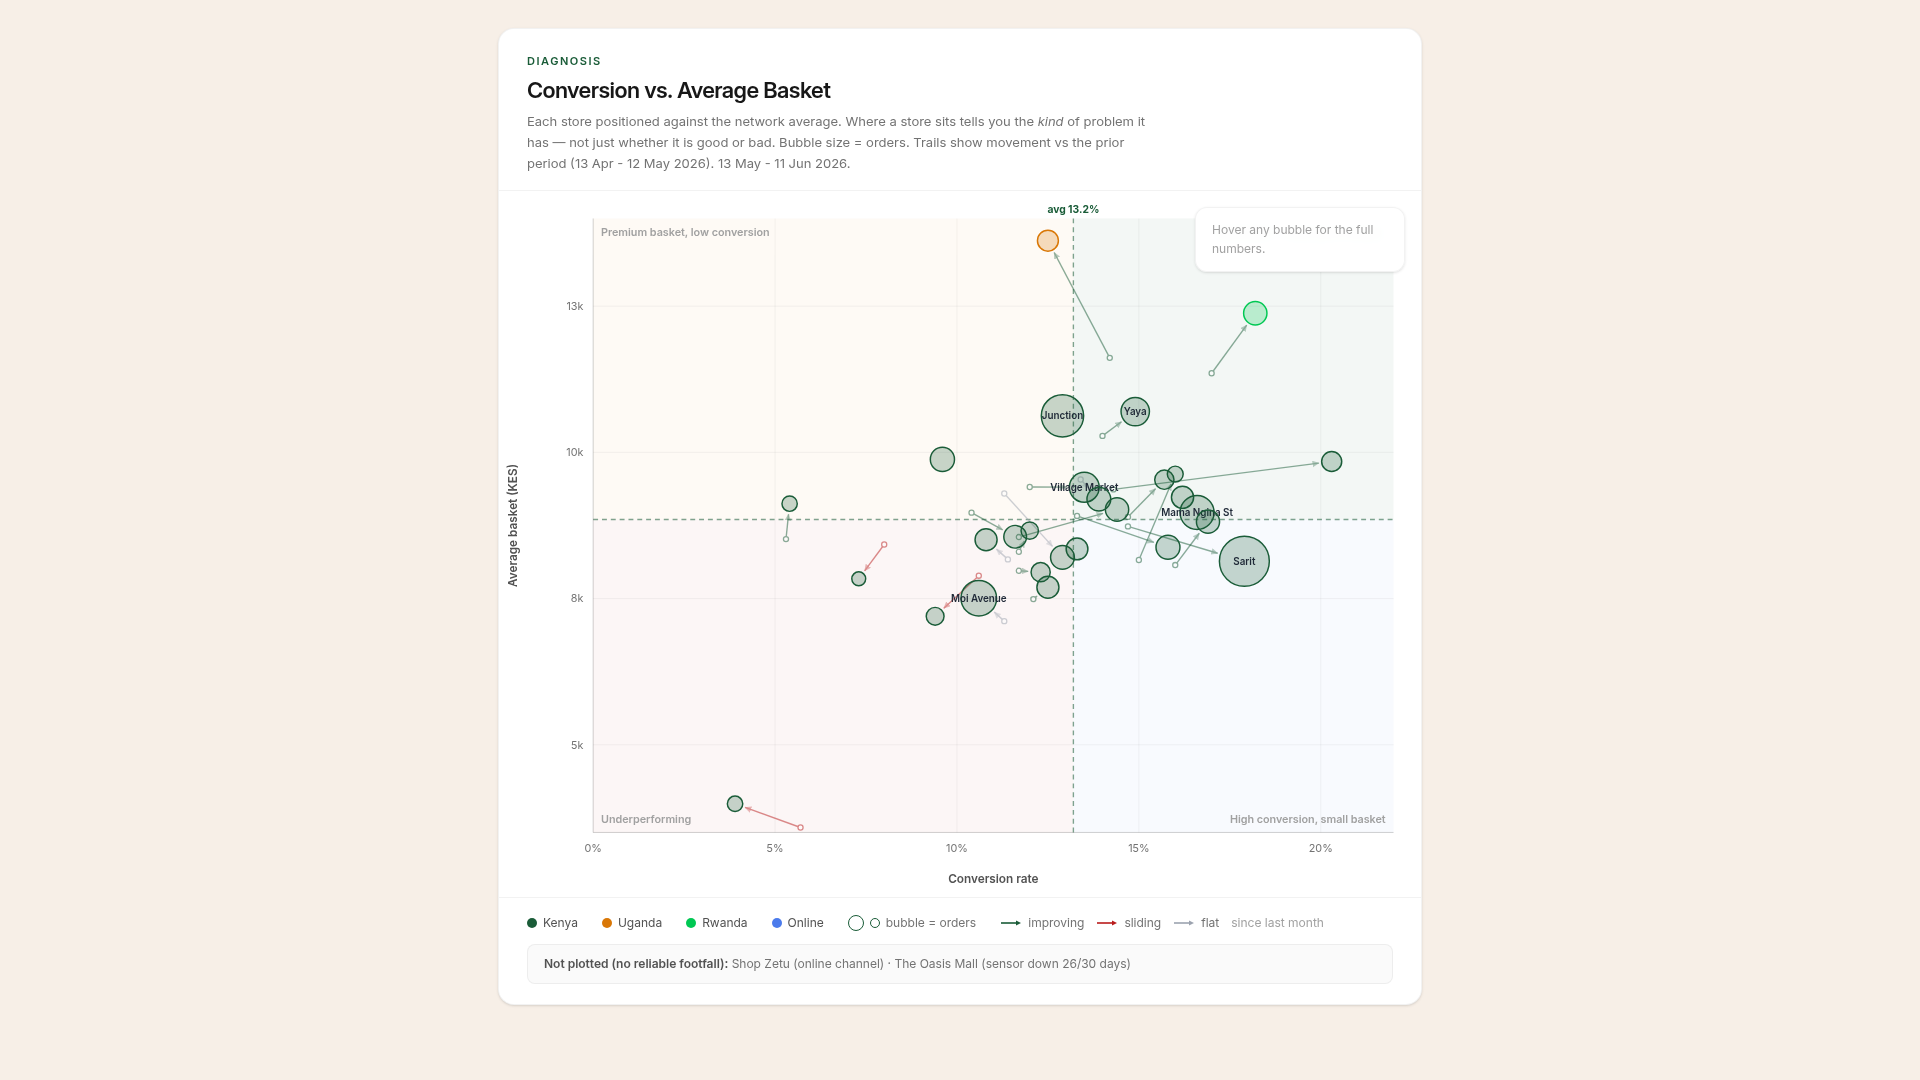
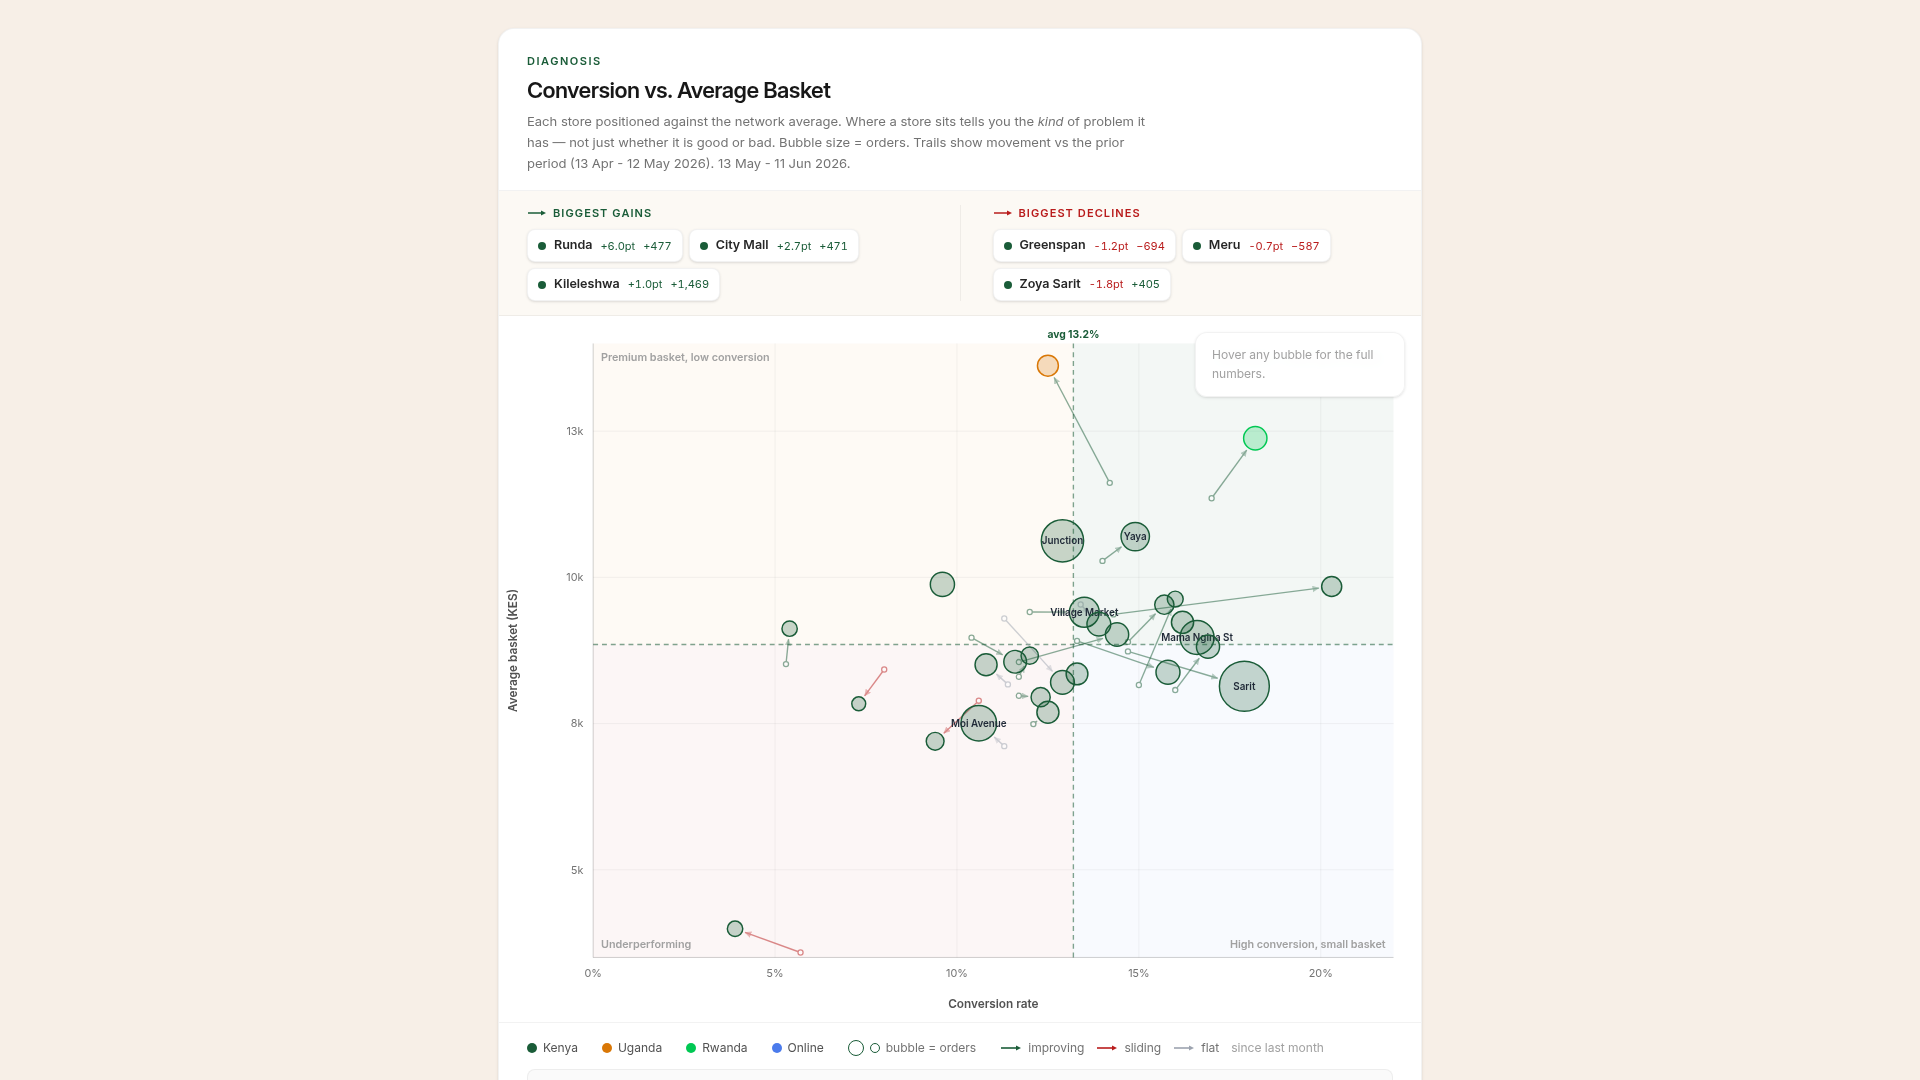
Add a "Biggest Movers" section to highlight top-performing and declining stores
Introduce a new section above the quadrant chart to display the top 3 improving and top 3 declining stores based on composite change.

Replit-Commit-Author: Agent
Replit-Commit-Session-Id: 21d9856c-48e5-4f86-9b96-73dfbca8c926
Replit-Commit-Checkpoint-Type: full_checkpoint
Replit-Commit-Event-Id: 2b2a8e65-3ff7-4ed0-944c-c78e91cff5f0
Replit-Commit-Screenshot-Url: https://storage.googleapis.com/screenshot-production-us-central1/a2104183-e22b-4aee-99f6-fc604d080eee/21d9856c-48e5-4f86-9b96-73dfbca8c926/EQgl18Q
Replit-Helium-Checkpoint-Created: true

diff --git a/artifacts/mockup-sandbox/src/components/mockups/locations-viz/Quadrant.tsx b/artifacts/mockup-sandbox/src/components/mockups/locations-viz/Quadrant.tsx
@@ -25,6 +25,13 @@ const clampY = (v: number) => Math.max(M.t, Math.min(M.t + IH, v));
 const plotted = STORES.filter((s) => s.convReliable && s.conversion != null);
 const notPlotted = STORES.filter((s) => !s.convReliable);
 
+const composite = (s: StoreRow) =>
+  (s.prev!.dConv / (NETWORK.netConv || 1)) + (s.prev!.dAbv / (NETWORK.netAbv || 1));
+
+const movers = plotted.filter((s) => s.prev).map((s) => ({ s, score: composite(s) }));
+const improving = movers.filter((m) => m.score > 0).sort((a, b) => b.score - a.score).slice(0, 3);
+const sliding = movers.filter((m) => m.score < 0).sort((a, b) => a.score - b.score).slice(0, 3);
+
 export function Quadrant() {
   const [hover, setHover] = useState<StoreRow | null>(null);
 
@@ -44,6 +51,13 @@ export function Quadrant() {
               problem it has — not just whether it is good or bad. Bubble size = orders. Trails show movement
               vs the prior period ({NETWORK.prevWindow}). {NETWORK.window}.
             </p>
+          </div>
+
+          {/* biggest movers strip */}
+          <div className="px-7 py-3.5 border-b border-black/5 flex flex-wrap items-start gap-x-8 gap-y-3" style={{ background: "#fcf9f4" }}>
+            <MoverGroup label="Biggest gains" dir="up" movers={improving} />
+            <div className="w-px self-stretch bg-black/5 hidden md:block" />
+            <MoverGroup label="Biggest declines" dir="down" movers={sliding} />
           </div>
 
           <div className="relative">
@@ -219,6 +233,44 @@ export function Quadrant() {
           )}
         </div>
       </div>
+    </div>
+  );
+}
+
+function MoverGroup({ label, dir, movers }: { label: string; dir: "up" | "down"; movers: { s: StoreRow; score: number }[] }) {
+  const col = dir === "up" ? "#1a5c38" : "#b91c1c";
+  return (
+    <div className="flex-1 min-w-[300px]">
+      <div className="flex items-center gap-1.5 mb-2">
+        <svg width="20" height="8">
+          <line x1="1" y1="4" x2="15" y2="4" stroke={col} strokeWidth="1.6" />
+          <path d="M14,1.6 L19,4 L14,6.4 Z" fill={col} />
+        </svg>
+        <span className="text-[11px] font-semibold tracking-[0.1em] uppercase" style={{ color: col }}>{label}</span>
+      </div>
+      <div className="flex flex-wrap gap-1.5">
+        {movers.length === 0 ? (
+          <span className="text-[12px] text-neutral-400">No qualifying stores</span>
+        ) : (
+          movers.map((m) => <MoverChip key={m.s.store} s={m.s} />)
+        )}
+      </div>
+    </div>
+  );
+}
+
+function MoverChip({ s }: { s: StoreRow }) {
+  const p = s.prev!;
+  return (
+    <div className="flex items-center gap-2 rounded-lg border border-black/5 bg-white px-2.5 py-1.5 shadow-sm">
+      <span className="inline-block w-2 h-2 rounded-full shrink-0" style={{ background: ACCENT[s.country] }} />
+      <span className="text-[12.5px] font-semibold text-neutral-800 whitespace-nowrap">{s.store}</span>
+      <span className="text-[11px] tabular-nums whitespace-nowrap" style={{ color: p.dConv >= 0 ? "#1a5c38" : "#b91c1c" }}>
+        {p.dConv >= 0 ? "+" : ""}{p.dConv.toFixed(1)}pt
+      </span>
+      <span className="text-[11px] tabular-nums whitespace-nowrap" style={{ color: p.dAbv >= 0 ? "#1a5c38" : "#b91c1c" }}>
+        {p.dAbv >= 0 ? "+" : "−"}{fmtKES(Math.abs(p.dAbv)).replace("KES ", "")}
+      </span>
     </div>
   );
 }
